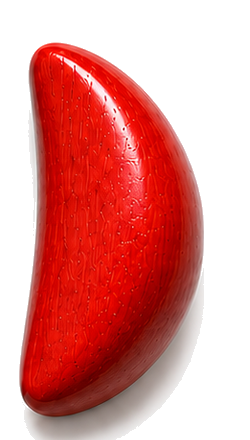
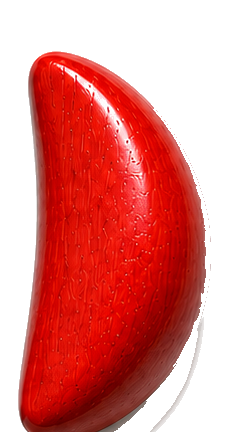
style(toss): larger poe (140×240) + cleaner edge bg removal
- floodfill from many seed points + alpha-feather on near-white edges
  removes the white halo that remained around the photos
- crop avoids the '聖杯' label and bottom shadow
- toss__poe enlarged 100→140 / 140→240, stage height 260→320
- toss animation translate/jump values scaled up to match new size

diff --git a/public/assets/css/styles.css b/public/assets/css/styles.css
@@ -459,12 +459,12 @@ body:not(:has(.upcoming)) .worship-floats { bottom: 24px; }
 
 .toss { position: relative; max-width: 620px; margin: 0 auto; text-align: center; }
 .toss__stage {
-  position: relative; display: flex; justify-content: center; align-items: flex-end; gap: 12px;
-  height: 260px; margin: 30px auto 24px; perspective: 1200px;
+  position: relative; display: flex; justify-content: center; align-items: flex-end; gap: 16px;
+  height: 320px; margin: 30px auto 24px; perspective: 1200px;
 }
 
-/* 紅筊（飽滿半月形） */
-.toss__poe { width: 100px; height: 140px; position: relative; transform-style: preserve-3d; transition: transform .2s; }
+/* 紅筊（飽滿半月形，加大） */
+.toss__poe { width: 140px; height: 240px; position: relative; transform-style: preserve-3d; transition: transform .2s; }
 .poe__inner { position: absolute; inset: 0; transform-style: preserve-3d; }
 .poe__face {
   position: absolute; inset: 0;
@@ -476,10 +476,10 @@ body:not(:has(.upcoming)) .worship-floats { bottom: 24px; }
 /* 右邊聖筊水平鏡像（兩個合在一起像滿月） */
 .poe--right .poe__face img { transform: scaleX(-1); }
 .poe__shadow {
-  position: absolute; bottom: -12px; left: 50%; transform: translateX(-50%);
-  width: 96px; height: 18px; border-radius: 50%;
+  position: absolute; bottom: -14px; left: 50%; transform: translateX(-50%);
+  width: 130px; height: 22px; border-radius: 50%;
   background: radial-gradient(ellipse, rgba(0,0,0,.55) 0%, rgba(0,0,0,0) 70%);
-  filter: blur(3px);
+  filter: blur(4px);
 }
 
 /* 初始：兩筊靠攏直立（雙手合握的姿態） */
@@ -488,15 +488,15 @@ body:not(:has(.upcoming)) .worship-floats { bottom: 24px; }
 
 /* 擲筊動畫：飛起、翻轉、落下（更流暢） */
 .toss__poe.tossing { animation: poeToss 1.9s cubic-bezier(.32, .04, .29, 1) forwards; }
-.poe--left.tossing  { --tx: -60px; --rotz: -420deg; }
-.poe--right.tossing { --tx:  60px; --rotz:  420deg; animation-delay: .05s; }
+.poe--left.tossing  { --tx: -80px; --rotz: -420deg; }
+.poe--right.tossing { --tx:  80px; --rotz:  420deg; animation-delay: .05s; }
 @keyframes poeToss {
   0%   { transform: translate(0, 0) rotateZ(0); }
-  18%  { transform: translate(calc(var(--tx) * .25), -130px) rotateZ(calc(var(--rotz) * .25)); }
-  38%  { transform: translate(calc(var(--tx) * .55), -220px) rotateZ(calc(var(--rotz) * .55)); }
-  60%  { transform: translate(calc(var(--tx) * .82), -170px) rotateZ(calc(var(--rotz) * .82)); }
-  82%  { transform: translate(calc(var(--tx) * .96), -40px) rotateZ(calc(var(--rotz) * .96)); }
-  92%  { transform: translate(var(--tx), 8px) rotateZ(var(--rotz)); }
+  18%  { transform: translate(calc(var(--tx) * .25), -170px) rotateZ(calc(var(--rotz) * .25)); }
+  38%  { transform: translate(calc(var(--tx) * .55), -280px) rotateZ(calc(var(--rotz) * .55)); }
+  60%  { transform: translate(calc(var(--tx) * .82), -210px) rotateZ(calc(var(--rotz) * .82)); }
+  82%  { transform: translate(calc(var(--tx) * .96), -50px) rotateZ(calc(var(--rotz) * .96)); }
+  92%  { transform: translate(var(--tx), 10px) rotateZ(var(--rotz)); }
   100% { transform: translate(var(--tx), 0) rotateZ(var(--rotz)); }
 }
 /* 翻轉 - 結束時的正反面 */